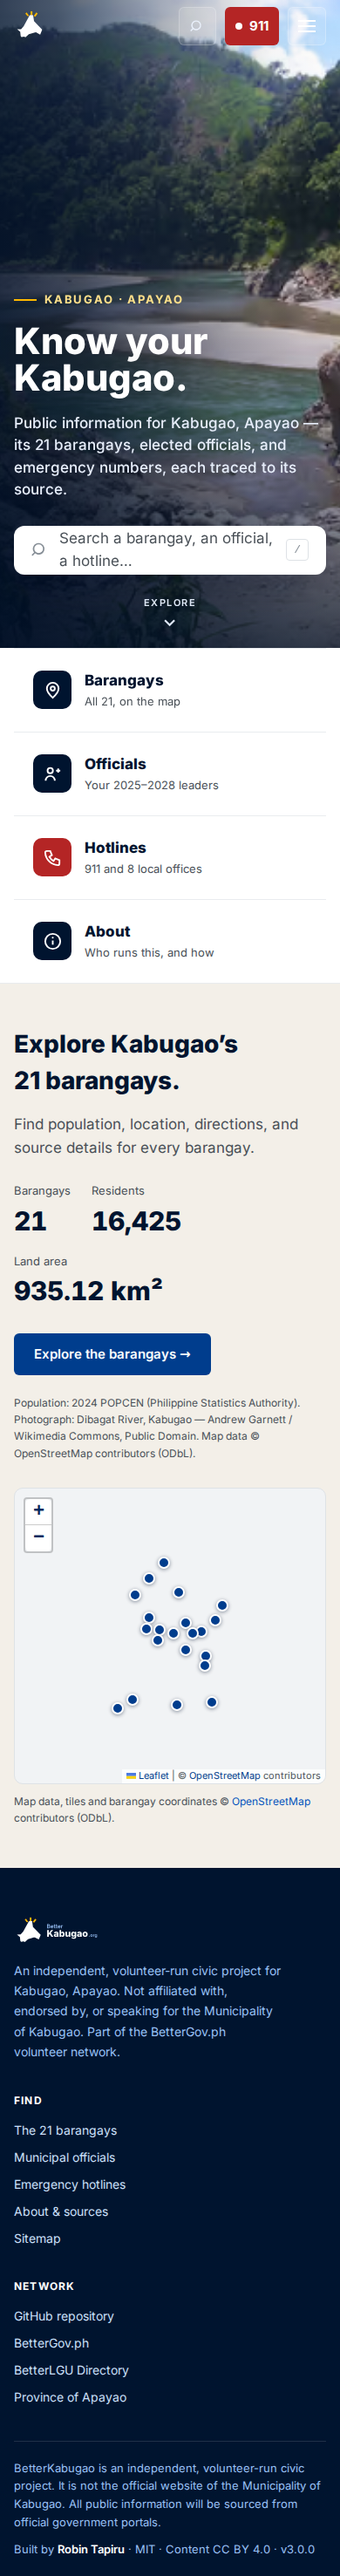
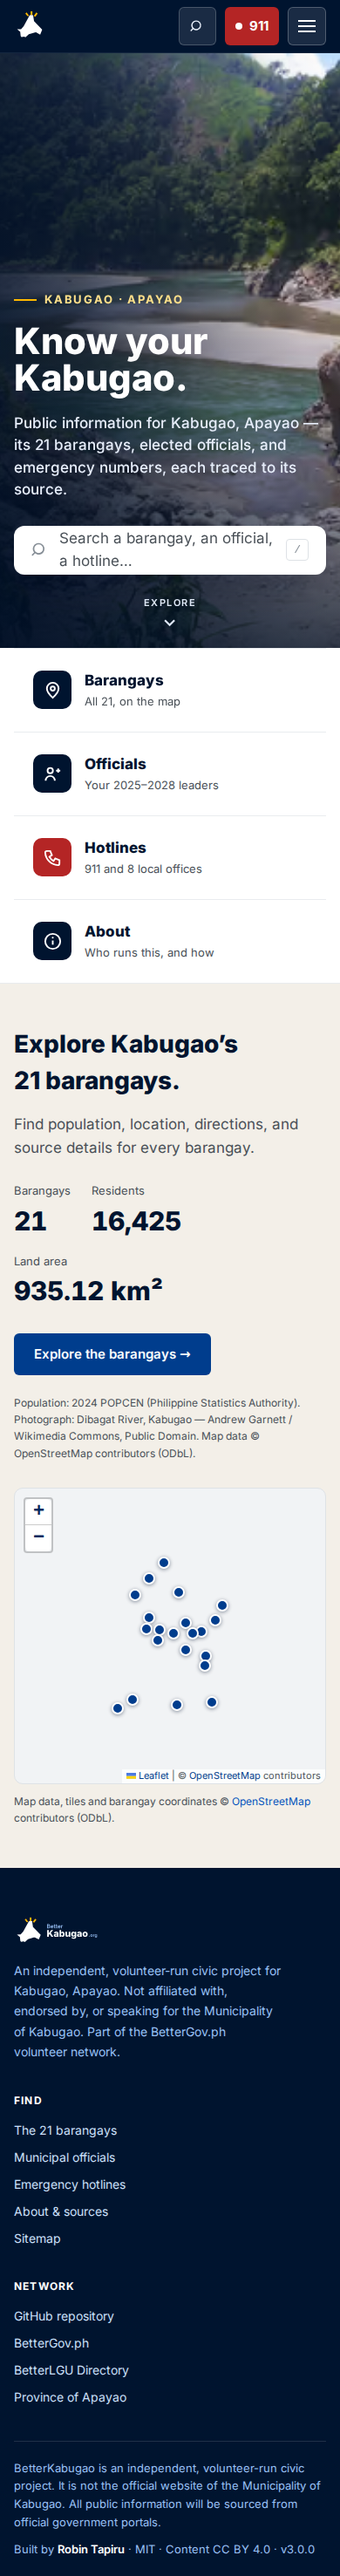
fix: final Checkpoint 1 correction — mobile header, clean-checkout tests, copy blocker
Final focused correction on experiment/full-site-visual-rebuild-v2. Direction
unchanged; experimental staging only, not main.

1. Mobile header visibility: the over-hero homepage header was transparent, so
   the white logo/Search/Menu faded into the photo. At <=900px .mast--over now
   has a solid, compact navy surface (rgb(0,20,47)) + hairline border — no
   glass/gradient/blur/glow; 911 stays red; the desktop image-overlay header is
   unchanged. Verified at 320/360/390.
2. Clean-checkout tests: added "pretest": "npm run build" so `npm ci && npm test`
   builds before the contract tests that read dist/. The prerendered
   OSM-attribution test still runs for real (skips only if dist/ is absent, like
   the prerender test). `npm run qa` no longer prepends a build; the harness
   builds only if dist/ is missing, so the verification sequence builds once. All
   commands exit non-zero on failure.
3. Removed the production copy blocker: neutralised the unqualified "capital of
   Apayao" everywhere (-> "the municipality of Kabugao, Apayao"); removed
   public-works/procurement/contractor/flood-control/spending promises from the
   global <noscript>, the homepage / /transparency / /government copy, the SEO
   metadata and the JSON-LD structured data; removed PHP0/PHP670 from the global
   <noscript> (they stay on /about's own body). Kept the independence disclaimer,
   "not the official website", and "Public project records are being prepared".
[…]

Changed region(s): [[0.0, 0.0, 1.0, 0.0311]]

diff --git a/src/app/site-content.ts b/src/app/site-content.ts
@@ -23,7 +23,7 @@ export const siteContent = {
   eyebrow: "Kabugao, Apayao",
   headline: "BetterKabugao.org",
   summary:
-    "A volunteer-run civic portal for Kabugao, the capital of Apayao — bringing public spending, public projects, local services and local knowledge into one place anyone can read.",
+    "A volunteer-run civic portal for the municipality of Kabugao, Apayao — bringing its barangays, elected officials, local services and local knowledge into one place anyone can read.",
 
   links: {
     repository: "https://github.com/KuyaLoy/betterkabugao",
@@ -51,7 +51,7 @@ export const siteContent = {
       { label: "Elected municipal officials", state: "done" },
       { label: "Public project records", state: "progress" },
       { label: "Service guides and contacts", state: "planned" },
-      { label: "Budget and procurement data", state: "planned" },
+      { label: "Verified public data", state: "planned" },
     ],
     footnote: "One feature ships at a time. Follow the build, or contribute, on GitHub.",
   },
@@ -60,9 +60,9 @@ export const siteContent = {
     kicker: "What this will be",
     title: "Public information about Kabugao, in one readable place.",
     body:
-      "Kabugao is the capital of Apayao — 21 barangays spread across 935.12 km² of the Cordillera, home to 16,425 people. Information about how it is governed exists, but it is scattered across national portals, PDFs and offices. BetterKabugao is being built to gather it, explain it in plain language, and keep it linked to its official source.",
+      "Kabugao is a municipality of Apayao — 21 barangays spread across 935.12 km² of the Cordillera, home to 16,425 people. Information about how it is governed exists, but it is scattered across national portals, PDFs and offices. BetterKabugao is being built to gather it, explain it in plain language, and keep it linked to its official source.",
     facts: [
-      { value: "Capital", label: "of Apayao province" },
+      { value: "Apayao", label: "province, Luzon" },
       { value: KABUGAO.barangays, label: "barangays" },
       { value: KABUGAO.population, label: `residents · ${KABUGAO.populationYear} POPCEN` },
       { value: KABUGAO.areaLabel, label: "land area" },
@@ -73,20 +73,17 @@ export const siteContent = {
 
   transparency: {
     number: "03",
-    kicker: "Transparency and public money",
-    title: "Where the money goes, and what gets built.",
+    kicker: "Public records",
+    title: "Public records for Kabugao",
     body:
-      "The first thing being built is a public record of local projects — flood control, roads, bridges, drainage, water systems and government facilities — with the budget, the funding source and the contractor attached to each one.",
-    schemaTitle: "Every project record will carry",
+      "Public records for Kabugao are being prepared. Nothing is published here until it can be verified against an official source, so this page shows only the fields a record will use and the official portals it will be checked against.",
+    schemaTitle: "What each record will show",
     schemaNote: "Public project records are being prepared. No figures are published until verified against official sources.",
     schema: [
-      "Project",
+      "Title",
       "Location",
-      "Budget",
-      "Funding source",
-      "Contractor",
-      "Implementing agency",
-      "Timeline",
+      "Source",
+      "Date verified",
       "Status",
       "Public documents",
     ],

diff --git a/src/lib/search.ts b/src/lib/search.ts
@@ -39,7 +39,7 @@ const PAGES: SearchEntry[] = [
   { path: "/government/barangays", kind: "Page", title: "All 21 barangays", summary: "Population, PSGC codes, coordinates and directions.", keywords: ["barangay", "list", "population", "psgc"] },
   { path: "/government/officials", kind: "Page", title: "Elected officials", summary: "Mayor, vice mayor and Sangguniang Bayan, 2025–2028.", keywords: ["mayor", "vice mayor", "sangguniang bayan", "councilor", "kagawad"] },
   { path: "/emergency", kind: "Page", title: "Emergency hotlines", summary: "Every published Kabugao emergency number, with +63 dialling from abroad.", keywords: ["emergency", "hotline", "911", "rescue", "police", "fire", "ambulance", "mdrrmo", "bfp", "rhu", "hospital", "tulong", "sunog", "pulis"] },
-  { path: "/transparency", kind: "Page", title: "Transparency", summary: "Public money and public projects — in preparation.", keywords: ["budget", "procurement", "flood control", "contractor", "spending"] },
+  { path: "/transparency", kind: "Page", title: "Transparency", summary: "Public records for Kabugao — in preparation.", keywords: ["transparency", "records", "public information", "sources", "in preparation"] },
   { path: "/explore", kind: "Page", title: "Explore Kabugao", summary: "Places, rivers, heritage and Isnag culture.", keywords: ["tourism", "isnag", "isneg", "river", "falls", "heritage"] },
   { path: "/services", kind: "Page", title: "Services", summary: "Certificates, permits, offices and contacts — in preparation.", keywords: ["permit", "certificate", "clearance", "office", "tax"] },
   { path: "/about", kind: "Page", title: "About", summary: "Who runs BetterKabugao, and how it is funded.", keywords: ["volunteer", "independent", "bettergov", "cost", "contact"] },

diff --git a/src/lib/seo.ts b/src/lib/seo.ts
@@ -37,7 +37,7 @@ const STATIC_META: Record<string, { title: string; description: string }> = {
   "/": {
     title: "Kabugao, Apayao — public information, barangays and officials",
     description:
-      "Public information about Kabugao, the capital of Apayao: all 21 barangays with population and directions, elected municipal officials, and sourced local data. Independent and volunteer-run.",
+      "Public information about the municipality of Kabugao, Apayao: all 21 barangays with population and directions, elected municipal officials, and sourced local data. Independent and volunteer-run.",
   },
   "/government": {
     title: "Government of Kabugao",
@@ -60,9 +60,9 @@ const STATIC_META: Record<string, { title: string; description: string }> = {
       "Emergency numbers published by the Municipality of Kabugao — MDRRMO, police, fire, the Rural Health Unit, MSWDO and the Apayao Provincial Hospital — with +63 international dialling for family abroad.",
   },
   "/transparency": {
-    title: "Transparency — public money and public projects",
+    title: "Public records for Kabugao — in preparation",
     description:
-      "What BetterKabugao is building on public spending and public projects in Kabugao: budgets, procurement, contractors and flood-control works, every figure sourced.",
+      "Public records for the municipality of Kabugao are in preparation. Nothing is published here until it is verified against an official source. Independent and volunteer-run.",
   },
   "/explore": {
     title: "Explore Kabugao — places, heritage and culture",

diff --git a/index.html b/index.html
@@ -37,9 +37,7 @@
       <aside aria-label="About BetterKabugao">
         <h2>BetterKabugao.org</h2>
         <p>This site works without JavaScript: every page is delivered as complete HTML, so the text above is the whole page and not a truncated shell. What JavaScript adds is the interactive map, the live weather reading, and the search and filter boxes.</p>
-        <p>Kabugao is the capital of Apayao. It has 21 barangays and 16,425 residents (2024 POPCEN) across 935.12 km², and is a 1st-class municipality, PSGC 1408104000.</p>
-        <p>Being built: a public record of local projects (flood control, roads, bridges, drainage, water systems) with budget, funding source and contractor; guides to municipal services; and documentation of Kabugao's places, heritage and culture.</p>
-        <p>Cost to the people of Kabugao: ₱0. Cost to build this site: ₱670, paid personally by the developer.</p>
+        <p>BetterKabugao covers the municipality of Kabugao, Apayao — its 21 barangays and 16,425 residents (2024 POPCEN) across 935.12 km². It publishes each barangay's population and location, the elected municipal officials, and local emergency numbers, each traced to its official source.</p>
         <p>BetterKabugao is an independent, volunteer-run civic project. It is not the official website of the Municipality of Kabugao.</p>
         <p>Built by Robin Tapiru. <a href="https://github.com/KuyaLoy/betterkabugao" rel="noreferrer">View the repository on GitHub</a>.</p>
       </aside>

diff --git a/src/pages/SimplePages.tsx b/src/pages/SimplePages.tsx
@@ -39,7 +39,7 @@ export function GovernmentPage() {
             <Link className="nav-card" to="/transparency">
               <span className="nav-card__kicker">In progress</span>
               <h3>Transparency</h3>
-              <p>Budgets, procurement and public projects, with every figure traced to its source.</p>
+              <p>Public records for Kabugao, in preparation — every figure traced to its official source before it is published.</p>
               <span className="nav-card__go" aria-hidden="true">→</span>
             </Link>
           </div>
@@ -69,9 +69,8 @@ export function TransparencyPage() {
           <div>
             <h2>{transparency.schemaTitle}</h2>
             <p className="section__body">
-              These are the fields every project record will carry. They are shown empty on purpose: no
-              budget, contractor or project name is published here until it is verified against an official
-              source.
+              These are the fields each record will use. They are shown empty on purpose: nothing is
+              published here until it is verified against an official source.
             </p>
             <div className="sources">
               <h3>{transparency.sourcesTitle}</h3>

diff --git a/src/styles.css b/src/styles.css
@@ -1372,6 +1372,11 @@ a:focus-visible, button:focus-visible { outline: 3px solid var(--color-primary-5
 }
 @media (max-width: 900px) {
   .mast__nav, .mast__search-label, .mast__emerg-long { display: none; }
+  /* On phones the transparent over-hero header left the white logo/Search/Menu
+     unreadable against the photo. Give the mobile header a solid, compact navy
+     surface (no gradient/blur/glow); the desktop image-overlay stays untouched. */
+  .mast--over { background: var(--color-primary-900); border-bottom: 1px solid rgba(255, 255, 255, 0.08); }
+  .mast--over .mast__link { text-shadow: none; }
   .mast__search { padding: 0 12px; }
   .mast__burger { display: inline-flex; }
   .mast__menu {

diff --git a/docs/command-center/active-task.md b/docs/command-center/active-task.md
@@ -198,6 +198,41 @@ Verified header/menu at 320x568, 360x780, 390x844, 768x900, 1280x900, 1440x900.
 Committed harness: `scripts/qa/serve.mjs`, `scripts/qa/checkpoint1.mjs`
 (`npm run qa`).
 
+## 2e. Final correction — Codex round 3 (4 items; the copy blocker is now CLEARED)
+
+`npm run qa` → **113/113 PASS, exit 0**. Gates: 38 contract + 49 unit, typecheck,
+lint. Verified at 320x568/360x780/390x844/768x900/1280x900/1440x900.
+
+1. **Mobile header contrast** — the homepage over-hero header was transparent, so
+   the white logo/Search/Menu faded into the photo. At ≤900px `.mast--over` now
+   has a solid compact **navy** surface (`rgb(0,20,47)`) + hairline border; no
+   glass/gradient/blur/glow; 911 stays red; the desktop image-overlay header is
+   unchanged. New harness check confirms the opaque navy surface at 320/360/390.
+2. **Clean-checkout test order** — added `"pretest": "npm run build"`, so
+   `npm ci && npm test` builds before the contract tests that read `dist/`. The
+   OSM/prerender tests skip gracefully if `dist/` is absent (as `test:contracts`
+   alone). `npm run qa` no longer prepends a build; the harness builds **only if**
+   `dist/` is missing, so the verification sequence (test builds → qa reuses)
+   builds exactly once. All commands exit non-zero on failure.
+3. **Copy blocker CLEARED (was §5)** — removed the unqualified "capital of
+   Apayao" everywhere (→ "the municipality of Kabugao, Apayao"), removed
+   public-works/procurement/contractor/flood-control/spending promises from the
+   global `<noscript>`, homepage + `/transparency` + `/government` copy, SEO
+   metadata, and structured data, and removed ₱0/₱670 from the global
+   `<noscript>` (₱0/₱670 stays on `/about`'s own body per the standing rule). Kept
+   the independence disclaimer + "not the official website" + "Public project
+   records are being prepared" (contract-required). New contract test asserts the
+   prohibited wording is absent from built HTML on every route and that the global
+   `<noscript>` carries no peso figures.
+4. **Round-2 fixes preserved** — layered Escape, menu-close-on-any-search-path,
+   menu motion + reduced-motion + inert, focus restoration, crawlable barangay
+   links, linked no-JS OSM attribution, desktop/mobile logo — all still green in
+   `npm run qa`.
+
+Files: index.html, src/lib/seo.ts, scripts/build-seo.mjs, src/app/site-content.ts,
+src/pages/SimplePages.tsx, src/lib/search.ts, src/styles.css, package.json,
+scripts/qa/checkpoint1.mjs, tests/site-contracts.test.mjs + docs.
+
 ---
 
 ## 3. Implementation progress (Checkpoint 1)
@@ -247,7 +282,7 @@ Committed harness: `scripts/qa/serve.mjs`, `scripts/qa/checkpoint1.mjs`
 
 ## 5. Risks / unresolved decisions
 
-- **DECISION NEEDED — pre-existing SEO + no-JS layer still carries flagged copy.**
+- **RESOLVED in round 3 (was: DECISION NEEDED) — pre-existing SEO + no-JS layer carried flagged copy.**
   The visible redesign is clean, but two pre-existing, contract-protected,
   **global** (all-routes) surfaces still contain material the copy mandate flags:
   - The shared homepage SEO meta description (from `src/lib/seo.ts`, rendered

diff --git a/docs/sessions/2026-08-21-full-site-visual-rebuild-v2.md b/docs/sessions/2026-08-21-full-site-visual-rebuild-v2.md
@@ -123,11 +123,34 @@ but real-Chrome QA found 4 blockers + 2 visual asks. All fixed in a third commit
 Verified by `npm run qa` (110/110 pass) at 320x568/360x780/390x844/768x900/
 1280x900/1440x900, plus 37 contract + 49 unit, typecheck, lint, build.
 
+## Correction pass — Codex round 3 (final Checkpoint 1 correction)
+
+Four focused items:
+
+1. Mobile header contrast: the over-hero header was transparent, so the white
+   logo/Search/Menu faded into the photo. At ≤900px the header now has a solid
+   compact navy surface (no gradient/blur/glow); 911 stays red; desktop overlay
+   unchanged.
+2. Clean-checkout test order: `pretest: npm run build` so `npm ci && npm test`
+   builds before the contract tests that read `dist/`; `npm run qa` builds only
+   if `dist/` is missing (verification sequence builds once); all exit non-zero
+   on failure.
+3. The production copy blocker is CLEARED: unqualified "capital of Apayao"
+   neutralised everywhere; public-works/procurement/contractor/flood-control/
+   spending promises removed from the global noscript, homepage, /transparency,
+   /government, SEO meta and structured data; ₱0/₱670 removed from the global
+   noscript (kept on /about). A new contract test guards prohibited wording on
+   every built route.
+4. All round-2 fixes preserved (layered Escape, menu close, motion, inert, focus
+   restoration, crawlable links, linked no-JS attribution, logo).
+
+Verified: 38 contract + 49 unit, typecheck, lint; `npm run qa` 113/113 at
+320x568/360x780/390x844/768x900/1280x900/1440x900.
+
 ## What is left
 
-Robin pushes the round-2 commit on `experiment/full-site-visual-rebuild-v2`;
-Cloudflare rebuilds the branch preview; Codex does final code + UI/UX QA.
-**No merge, no Checkpoint 2** until Codex approves. The legacy SEO/`<noscript>`
-copy (capital claim, public-works words, ₱0/₱670) remains a recorded production
-blocker for a separate, approved follow-up — untouched here, and the branch is
-not ready for `main` while it stands.
+Robin pushes the round-3 commit on `experiment/full-site-visual-rebuild-v2`;
+Cloudflare rebuilds the branch preview; Codex does final code + UI/UX QA. **No
+merge, no Checkpoint 2** until Codex approves. The copy blocker that stood
+through rounds 1–2 is now resolved, so nothing known blocks `main` on the copy
+front — but the decision to merge remains Codex's after the staging review.

diff --git a/docs/CONTEXT.md b/docs/CONTEXT.md
@@ -78,6 +78,20 @@ session (see `docs/skills/session-memory/SKILL.md`).
 
 ## Key decisions log
 
+- **2026-08-21 (round 3)** Cleared the final production **copy blocker** and two
+  QA/UX fixes on `experiment/full-site-visual-rebuild-v2`. Neutralised the
+  unqualified "capital of Apayao" everywhere (→ "the municipality of Kabugao,
+  Apayao"); removed public-works / procurement / contractor / flood-control /
+  spending promises from the global `<noscript>`, the homepage / `/transparency`
+  / `/government` copy, the SEO metadata and the structured data; dropped ₱0/₱670
+  from the global `<noscript>` (they stay on `/about`'s own body). Kept the
+  independence disclaimer and the contract-required strings. Also: the mobile
+  homepage header now has a solid compact **navy** surface (white logo/Search/
+  Menu were unreadable over the photo; desktop overlay unchanged); and
+  `npm ci && npm test` now builds first via a `pretest` hook so the prerendered
+  OSM-attribution contract test runs for real, while `npm run qa` builds only if
+  `dist/` is missing (verification sequence builds once). A new contract test
+  guards the prohibited wording across every built route. `npm run qa` → 113/113.
 - **2026-08-21** Built the approved **"Kabugao in View"** photo-led redesign as
   Checkpoint 1 on `experiment/full-site-visual-rebuild-v2` (clean-cut from
   `origin/main` `745b877`; the rejected "Living Civic Atlas" experiment was

diff --git a/README.md b/README.md
@@ -1,6 +1,6 @@
 # BetterKabugao
 
-BetterKabugao is an independent, community-maintained civic portal for Kabugao, the capital municipality of Apayao. It is an independent civic initiative, not the official website of the Municipality of Kabugao, and is part of the [BetterGov.ph](https://bettergov.ph/) volunteer network — see the [BetterLGU Directory](https://lgu.bettergov.ph/).
+BetterKabugao is an independent, community-maintained civic portal for Kabugao, a municipality of Apayao. It is an independent civic initiative, not the official website of the Municipality of Kabugao, and is part of the [BetterGov.ph](https://bettergov.ph/) volunteer network — see the [BetterLGU Directory](https://lgu.bettergov.ph/).
 
 Kabugao: 21 barangays · 16,425 residents (2024 POPCEN) · 935.12 km² · 1st-class income · PSGC 1408104000. Built at ₱0 cost to the people.
 

diff --git a/docs/START-HERE.md b/docs/START-HERE.md
@@ -27,8 +27,8 @@ Do not skip 5 and 6. The design and the roadmap are both *measured* and
 
 ## 1. What this project is
 
-An independent, volunteer-run civic transparency portal for **Kabugao, the
-capital municipality of Apayao, Philippines** (21 barangays, 16,425 residents
+An independent, volunteer-run civic transparency portal for **Kabugao, a
+municipality of Apayao, Philippines** (21 barangays, 16,425 residents
 per the 2024 POPCEN, 935.12 km², 1st-class income, PSGC 1408104000). Part of
 the **BetterGov.ph / BetterLGU** volunteer network.
 
